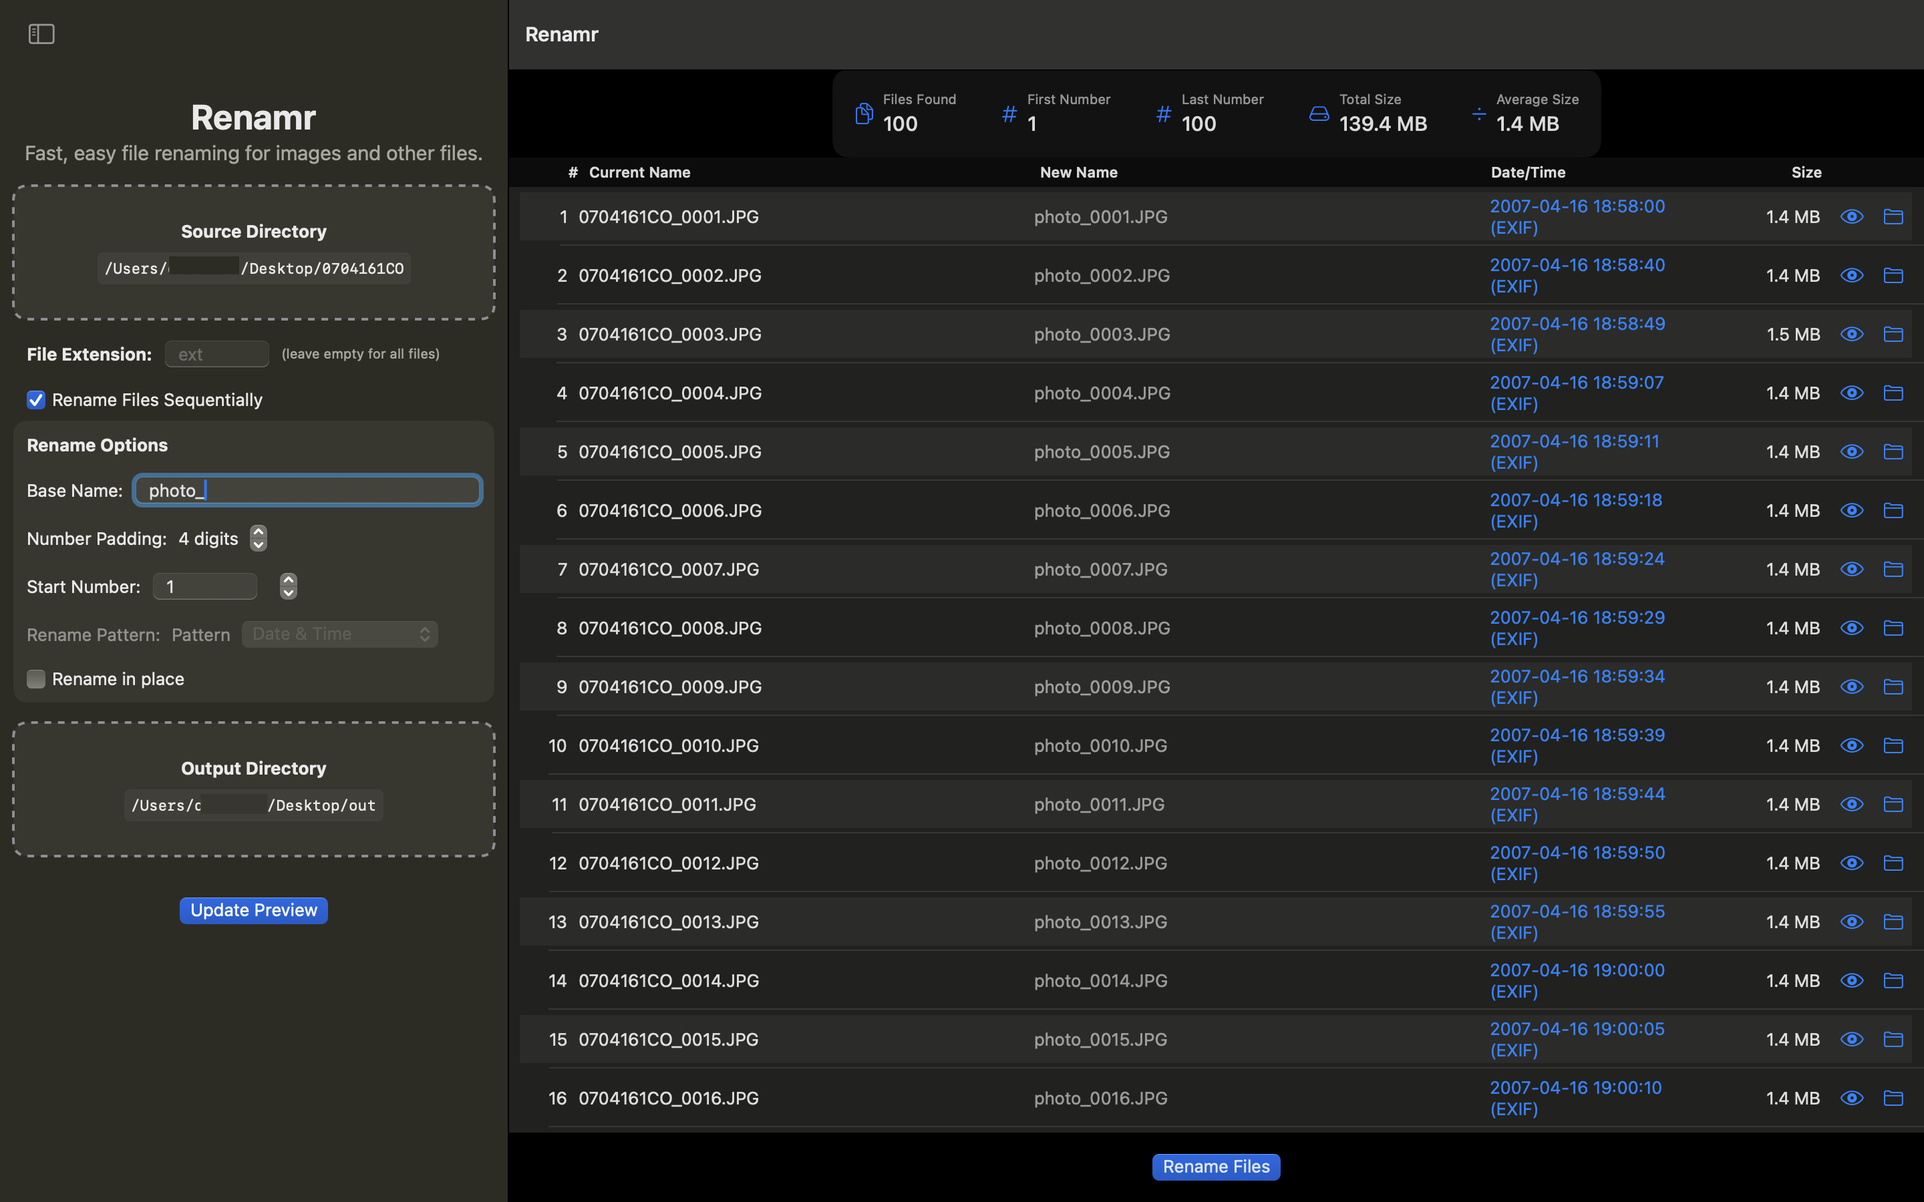
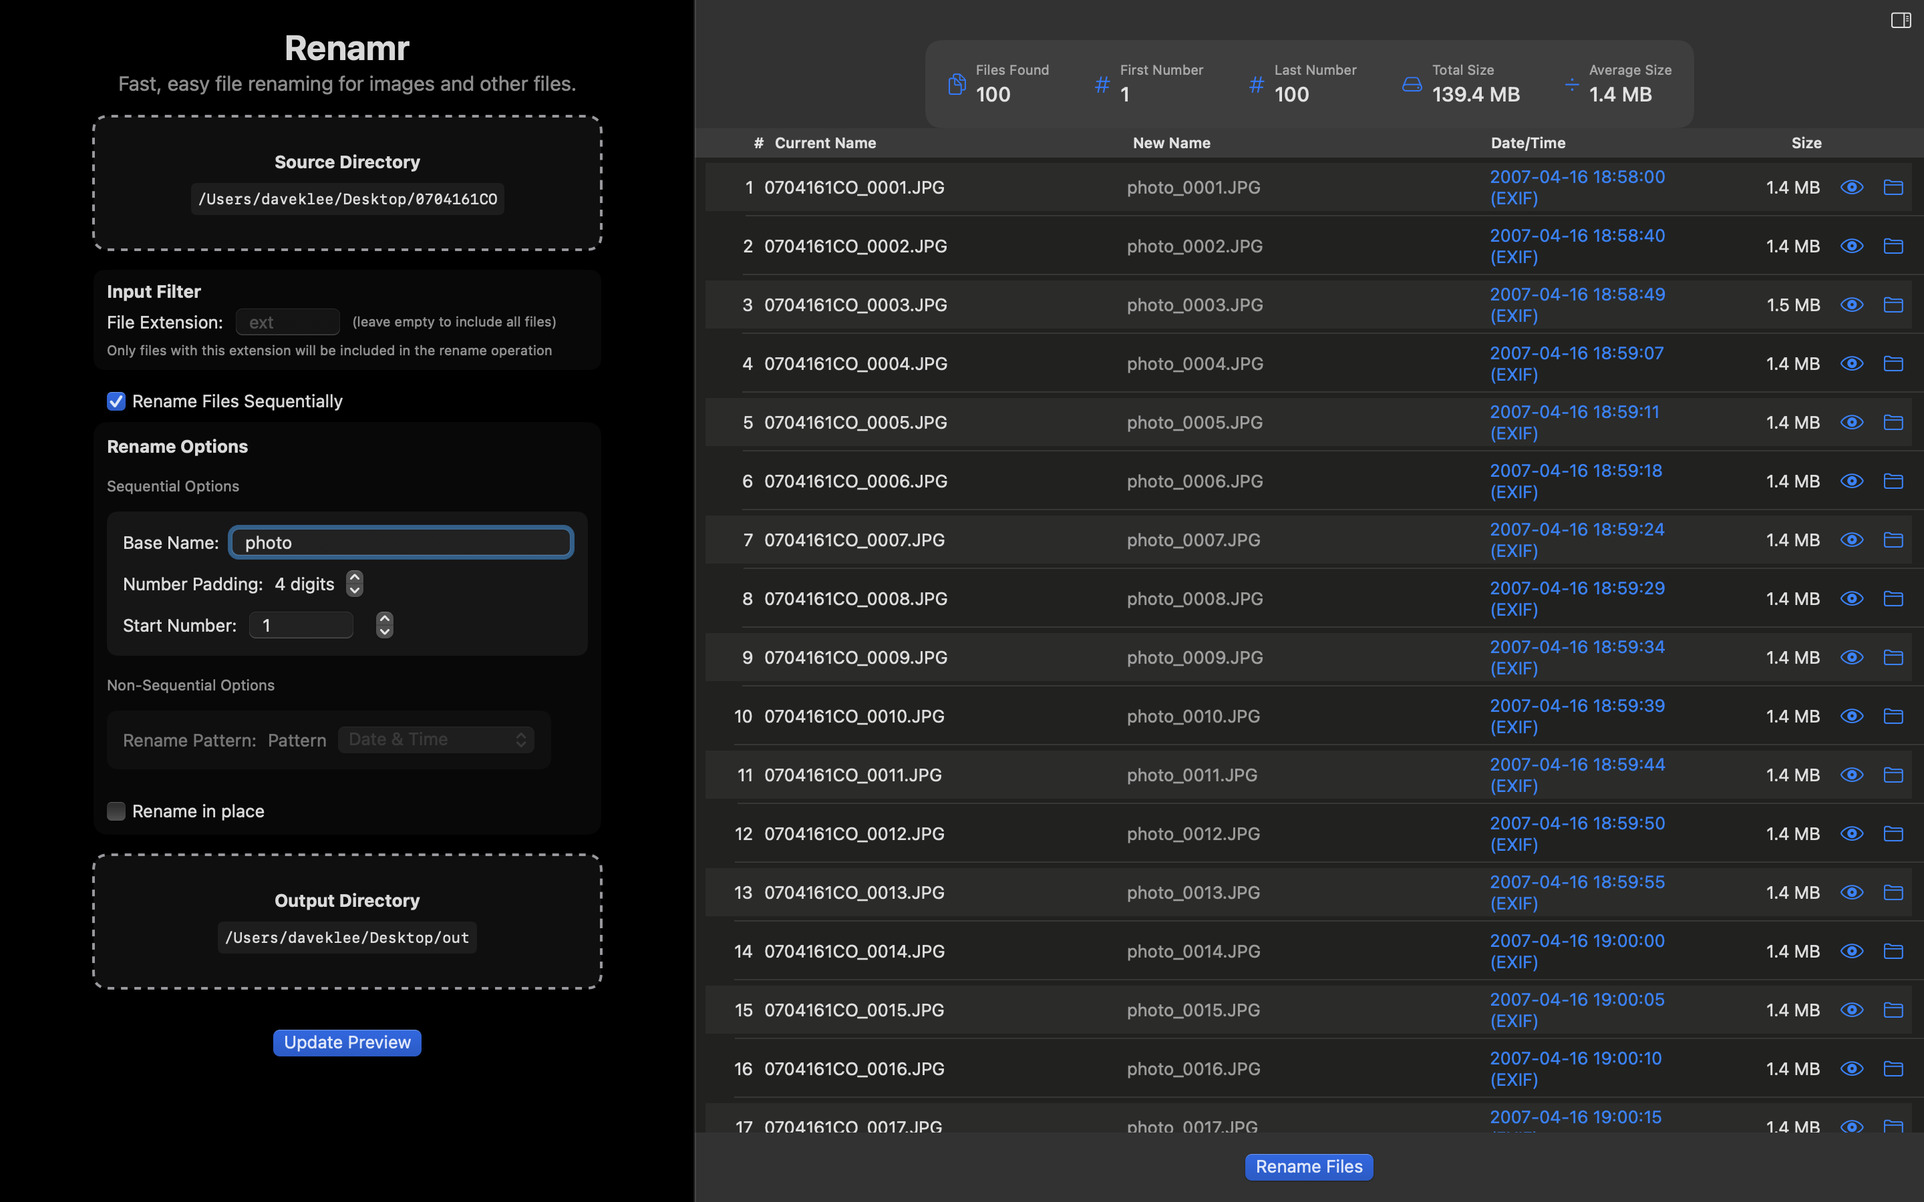
Update to version 1.2.2:
Introduced UI improvements for clearer grouping of options, enhanced file extension filter labeling, and updated date-based renaming to prioritize EXIF date. Fixed Swift 6 warnings and improved async test compatibility, along with minor bug fixes and code cleanup.

diff --git a/Renamr/Views/ContentView.swift b/Renamr/Views/ContentView.swift
@@ -43,18 +43,31 @@ struct ConfigView: View {
                 }
                 
                 // File Filters Section
-                HStack {
-                    Text("File Extension:")
+                VStack(alignment: .leading, spacing: 4) {
+                    Text("Input Filter")
                         .font(.headline)
-                    TextField("ext", text: $viewModel.extensionFilter)
-                        .textFieldStyle(.roundedBorder)
-                        .frame(width: 80)
-                    Text("(leave empty for all files)")
+                    
+                    HStack {
+                        Text("File Extension:")
+                        TextField("ext", text: $viewModel.extensionFilter)
+                            .textFieldStyle(.roundedBorder)
+                            .frame(width: 80)
+                        Text("(leave empty to include all files)")
+                            .font(.caption)
+                            .foregroundColor(.secondary)
+                        Spacer()
+                    }
+                    Text("Only files with this extension will be included in the rename operation")
                         .font(.caption)
                         .foregroundColor(.secondary)
-                    Spacer()
+                        .fixedSize(horizontal: false, vertical: true)
                 }
                 .padding(.horizontal, 10)
+                .padding(.vertical, 8)
+                .background(
+                    RoundedRectangle(cornerRadius: 8)
+                        .fill(Color.gray.opacity(0.05))
+                )
                 
                 // Combined Options Section
                 VStack(alignment: .leading, spacing: 8) {
@@ -67,81 +80,99 @@ struct ConfigView: View {
                         Text("Rename Options")
                             .font(.headline)
                         
-                        // Sequential Options (Base Name)
-                        VStack(alignment: .leading) {
-                            HStack {
-                                Text("Base Name:")
-                                TextField("Enter base name", text: $viewModel.basename)
-                                    .textFieldStyle(.roundedBorder)
+                        // Sequential Options Group
+                        VStack(alignment: .leading, spacing: 12) {
+                            Text("Sequential Options")
+                                .font(.subheadline)
+                                .foregroundColor(.secondary)
+                            
+                            VStack(alignment: .leading, spacing: 10) {
+                                // Base Name
+                                HStack {
+                                    Text("Base Name:")
+                                    TextField("Enter base name", text: $viewModel.basename)
+                                        .textFieldStyle(.roundedBorder)
+                                }
+                                
+                                // Number Padding
+                                HStack {
+                                    Text("Number Padding:")
+                                    Stepper(value: $viewModel.numberPadding, in: 1...10) {
+                                        Text("\(viewModel.numberPadding) digits")
+                                    }
+                                }
+                                
+                                // Start Number
+                                HStack {
+                                    Text("Start Number:")
+                                    TextField("", value: $viewModel.startNumber, formatter: NumberFormatter())
+                                        .textFieldStyle(.roundedBorder)
+                                        .frame(width: 80)
+                                    Stepper("", value: $viewModel.startNumber, in: 1...999999) { _ in }
+                                }
                             }
-                            .disabled(!viewModel.sequentialMode)
+                            .padding(12)
+                            .background(
+                                RoundedRectangle(cornerRadius: 8)
+                                    .fill(Color.gray.opacity(0.1))
+                            )
                             .opacity(viewModel.sequentialMode ? 1.0 : 0.5)
+                            .disabled(!viewModel.sequentialMode)
                         }
-                        
-                        // Sequential Options (Number Padding)
-                        HStack {
-                            Text("Number Padding:")
-                            Stepper(value: $viewModel.numberPadding, in: 1...10) {
-                                Text("\(viewModel.numberPadding) digits")
-                            }
-                        }
-                        .disabled(!viewModel.sequentialMode)
-                        .opacity(viewModel.sequentialMode ? 1.0 : 0.5)
-                        
-                        // Sequential Options (Start Number)
-                        HStack {
-                            Text("Start Number:")
-                            TextField("", value: $viewModel.startNumber, formatter: NumberFormatter())
-                                .textFieldStyle(.roundedBorder)
-                                .frame(width: 80)
-                            Stepper("", value: $viewModel.startNumber, in: 1...999999) { _ in }
-                        }
-                        .disabled(!viewModel.sequentialMode)
-                        .opacity(viewModel.sequentialMode ? 1.0 : 0.5)
                         
                         // Non-Sequential Options
-                        VStack(alignment: .leading, spacing: 10) {
-                            // Pattern Type Picker
-                            HStack {
-                                Text("Rename Pattern:")
-                                Picker("Pattern", selection: $viewModel.nonSequentialPattern) {
-                                    ForEach(NonSequentialPattern.allCases, id: \.self) { pattern in
-                                        Text(pattern.displayName).tag(pattern)
-                                    }
-                                }
-                                .pickerStyle(.menu)
-                                .frame(width: 200)
-                            }
-                            .disabled(viewModel.sequentialMode)
-                            .opacity(viewModel.sequentialMode ? 0.5 : 1.0)
+                        VStack(alignment: .leading, spacing: 12) {
+                            Text("Non-Sequential Options")
+                                .font(.subheadline)
+                                .foregroundColor(.secondary)
                             
-                            // Random name length if random pattern selected
-                            if viewModel.nonSequentialPattern == .random {
+                            VStack(alignment: .leading, spacing: 10) {
+                                // Pattern Type Picker
                                 HStack {
-                                    Text("Random Name Length:")
-                                    Stepper(value: $viewModel.randomNameLength, in: 4...16) {
-                                        Text("\(viewModel.randomNameLength) characters")
+                                    Text("Rename Pattern:")
+                                    Picker("Pattern", selection: $viewModel.nonSequentialPattern) {
+                                        ForEach(NonSequentialPattern.allCases, id: \.self) { pattern in
+                                            Text(pattern.displayName).tag(pattern)
+                                        }
+                                    }
+                                    .pickerStyle(.menu)
+                                    .frame(width: 200)
+                                }
+                                
+                                // Random name length if random pattern selected
+                                if viewModel.nonSequentialPattern == .random {
+                                    HStack {
+                                        Text("Random Name Length:")
+                                        Stepper(value: $viewModel.randomNameLength, in: 4...16) {
+                                            Text("\(viewModel.randomNameLength) characters")
+                                        }
                                     }
                                 }
-                                .disabled(viewModel.sequentialMode)
-                                .opacity(viewModel.sequentialMode ? 0.5 : 1.0)
+                                
+                                if viewModel.nonSequentialPattern == .dateTime && !viewModel.sequentialMode {
+                                    Text("Date-based naming will use image EXIF date when available, falling back to file creation date.")
+                                        .font(.footnote)
+                                        .foregroundColor(.secondary)
+                                        .fixedSize(horizontal: false, vertical: true)
+                                }
                             }
-                            
-                            if viewModel.nonSequentialPattern == .dateTime && !viewModel.sequentialMode {
-                                Text("Date-based naming will use image EXIF date when available, then file modification date, then current date.")
-                                    .font(.footnote)
-                                    .foregroundColor(.secondary)
-                                    .fixedSize(horizontal: false, vertical: true)
-                            }
+                            .padding(12)
+                            .background(
+                                RoundedRectangle(cornerRadius: 8)
+                                    .fill(Color.gray.opacity(0.1))
+                            )
+                            .opacity(viewModel.sequentialMode ? 0.5 : 1.0)
+                            .disabled(viewModel.sequentialMode)
                         }
                         
                         // Rename In Place Toggle
                         Toggle("Rename in place", isOn: $viewModel.renameInPlace)
+                            .padding(.top, 8)
                     }
                     .padding(10)
                     .background(
                         RoundedRectangle(cornerRadius: 10)
-                            .fill(Color.gray.opacity(0.1))
+                            .fill(Color.gray.opacity(0.05))
                     )
                 }
                 

diff --git a/Renamr/ViewModels/RenameViewModel.swift b/Renamr/ViewModels/RenameViewModel.swift
@@ -185,8 +185,8 @@ public class RenameViewModel: ObservableObject {
     func startRenaming() {
         guard !previewFiles.isEmpty else { return }
         
-        let previewFilesCopy = previewFiles
-        currentOperation = Task {
+        let previewFilesCopy = self.previewFiles
+        currentOperation = Task { [previewFilesCopy] in
             await MainActor.run {
                 isProcessing = true
                 progress = 0
@@ -368,11 +368,11 @@ public class RenameViewModel: ObservableObject {
         if let exifDate = getExifDate(from: fileURL) {
             date = exifDate
         }
-        // Try file modification date next
-        else if let modDate = getFileModificationDate(from: fileURL) {
-            date = modDate
+        // Try file creation date next
+        else if let creationDate = getFileCreationDate(fileURL) {
+            date = creationDate
         }
-        // Fall back to current date/time
+        // If no date is available, use a timestamp to ensure uniqueness
         else {
             date = Date()
         }
@@ -387,35 +387,39 @@ public class RenameViewModel: ObservableObject {
         return "\(baseString)-\(String(format: "%03d", milliseconds))"
     }
     
-    private func getFileModificationDate(from fileURL: URL) -> Date? {
+    public func getFileCreationDate(_ fileURL: URL) -> Date? {
         do {
-            let resourceValues = try fileURL.resourceValues(forKeys: [.contentModificationDateKey])
-            return resourceValues.contentModificationDate
+            let resourceValues = try fileURL.resourceValues(forKeys: [.creationDateKey])
+            return resourceValues.creationDate
         } catch {
-            print("Error reading file modification date: \(error)")
             return nil
         }
     }
     
-    private func getDatePrefix(from fileURL: URL) -> String {
-        // Try to get date from EXIF data first (for images)
-        if let exifDate = getExifDate(from: fileURL) {
-            let formatter = DateFormatter()
-            formatter.dateFormat = "yyyyMMdd"
-            return formatter.string(from: exifDate)
-        }
-        
-        // Try to get file modification date as fallback
-        if let modificationDate = getFileModificationDate(from: fileURL) {
-            let formatter = DateFormatter()
-            formatter.dateFormat = "yyyyMMdd"
-            return formatter.string(from: modificationDate)
-        }
-        
-        // Use current date as final fallback
-        let formatter = DateFormatter()
-        formatter.dateFormat = "yyyyMMdd"
-        return formatter.string(from: Date())
+    // Also handle picker-based folder selection
+    func setSourceURLFromPicker(_ url: URL) {
+        self.sourceURL = url
+        self.suggestBasenameFromSourceURL()
+        self.previewFiles = []
+        self.previewGenerated = false
+    }
+    
+    private func suggestBasenameFromSourceURL() {
+        guard let url = sourceURL else { return }
+        let folderName = url.lastPathComponent
+        // Remove trailing numbers/underscores if present
+        let base = folderName.replacingOccurrences(of: #"[_\d]+$"#, with: "", options: .regularExpression)
+        self.basename = base
+    }
+    
+    public func performRename() async {
+        // Implementation of performRename method
+    }
+    
+    public func outputFileExists(named name: String) -> Bool {
+        guard let outputURL = outputURL else { return false }
+        let path = outputURL.appendingPathComponent(name).resolvingSymlinksInPath().path
+        return FileManager.default.fileExists(atPath: path)
     }
     
     func getExifDate(from fileURL: URL) -> Date? {
@@ -475,40 +479,5 @@ public class RenameViewModel: ObservableObject {
             return creation
         }
         return nil
-    }
-    
-    func getFileCreationDate(_ fileURL: URL) -> Date? {
-        do {
-            let resourceValues = try fileURL.resourceValues(forKeys: [.creationDateKey])
-            return resourceValues.creationDate
-        } catch {
-            return nil
-        }
-    }
-    
-    // Also handle picker-based folder selection
-    func setSourceURLFromPicker(_ url: URL) {
-        self.sourceURL = url
-        self.suggestBasenameFromSourceURL()
-        self.previewFiles = []
-        self.previewGenerated = false
-    }
-    
-    private func suggestBasenameFromSourceURL() {
-        guard let url = sourceURL else { return }
-        let folderName = url.lastPathComponent
-        // Remove trailing numbers/underscores if present
-        let base = folderName.replacingOccurrences(of: #"[_\d]+$"#, with: "", options: .regularExpression)
-        self.basename = base
-    }
-    
-    public func performRename() async {
-        // Implementation of performRename method
-    }
-    
-    public func outputFileExists(named name: String) -> Bool {
-        guard let outputURL = outputURL else { return false }
-        let path = outputURL.appendingPathComponent(name).resolvingSymlinksInPath().path
-        return FileManager.default.fileExists(atPath: path)
     }
 } 

diff --git a/RenamrTests/RenamrTests.swift b/RenamrTests/RenamrTests.swift
@@ -52,8 +52,8 @@ final class RenameViewModelTests: XCTestCase {
         // Create files with different dates
         let date1 = Date(timeIntervalSince1970: 1000)
         let date2 = Date(timeIntervalSince1970: 2000)
-        let fileA = createFile(named: "A.jpg", date: date2)
-        let fileB = createFile(named: "B.jpg", date: date1)
+        _ = createFile(named: "A.jpg", date: date2)
+        _ = createFile(named: "B.jpg", date: date1)
         viewModel.sourceURL = tempDir
         viewModel.sequentialMode = true
         viewModel.basename = "Test"
@@ -80,7 +80,7 @@ final class RenameViewModelTests: XCTestCase {
         viewModel.generatePreview()
         let exp = expectation(description: "Preview")
         DispatchQueue.main.asyncAfter(deadline: .now() + 1) { exp.fulfill() }
-        wait(for: [exp], timeout: 2)
+        await fulfillment(of: [exp], timeout: 2)
         print("Preview files:", viewModel.previewFiles.map { $0.sourceURL.lastPathComponent })
         print("Temp dir contents before renaming:", try! FileManager.default.contentsOfDirectory(atPath: tempDir.path))
         print("Output dir contents before renaming:", try! FileManager.default.contentsOfDirectory(atPath: outputDir.path))
@@ -91,7 +91,7 @@ final class RenameViewModelTests: XCTestCase {
         print("Test expects output file at:", expectedOutputPath)
         print("Resolved output path for assertion:", resolvedOutputPath)
         await viewModel.startRenaming()
-        Thread.sleep(forTimeInterval: 0.5) // Wait for file system sync
+        try await Task.sleep(nanoseconds: 500_000_000) // Wait for file system sync
         print("Temp dir contents after renaming:", try! FileManager.default.contentsOfDirectory(atPath: tempDir.path))
         print("Output dir contents after renaming:", try! FileManager.default.contentsOfDirectory(atPath: outputDir.path))
         // File should exist in both source and output

diff --git a/README.md b/README.md
@@ -1,8 +1,8 @@
 # Renamr
 
-**Version 1.2.1**
+**Version 1.2.2**
 
-## What's New in 1.2.1
+## What's New in 1.2.2
 - Preview table shows file date/time used for sorting, and indicates if EXIF was used.
 - Alternating row backgrounds for better readability.
 - Real-time progress bar and status for both scanning and renaming.
@@ -12,6 +12,10 @@
 - Files are always renamed in oldest-first order (EXIF date, then creation date, then filename).
 - Table shows file size and sequential number.
 - Improved macOS look and feel.
+- Improved UI clarity for file extension input filter and sequential/non-sequential options
+- Date-based renaming now uses EXIF date, then file creation date only (no modification/current date fallback)
+- Fixed Swift 6 warnings and improved async test compatibility
+- Various bug fixes and code cleanup
 
 A modern macOS application for batch file renaming with a focus on images and other files. Renamr features a clean, intuitive interface and powerful renaming capabilities.
 

diff --git a/CHANGELOG.md b/CHANGELOG.md
@@ -5,6 +5,13 @@ All notable changes to the Renamr application will be documented in this file.
 The format is based on [Keep a Changelog](https://keepachangelog.com/en/1.0.0/),
 and this project adheres to [Semantic Versioning](https://semver.org/spec/v2.0.0.html).
 
+## [1.2.2] - 2024-05-26
+### Added/Changed
+- UI improvements: clearer grouping for sequential/non-sequential options, improved file extension filter labeling
+- Date-based renaming now uses EXIF date, then file creation date only
+- Fixed Swift 6 warnings and async test compatibility
+- Minor bug fixes and code cleanup
+
 ## [1.2.1] - 2024-05-25
 ### Changed
 - Refactored sidebar and file preview display: the preview is now a collapsible right panel, and the config section is always visible on the left.
